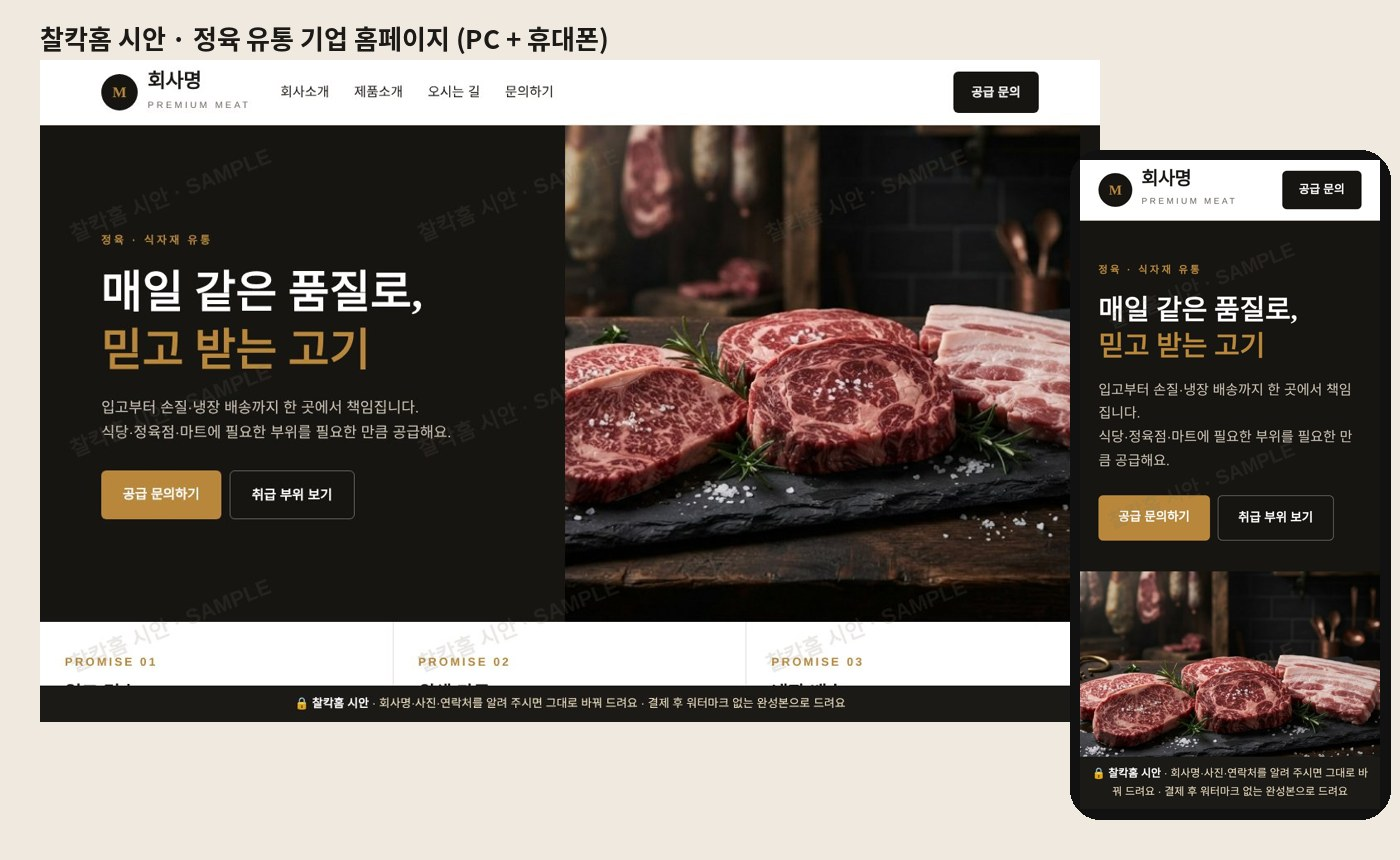
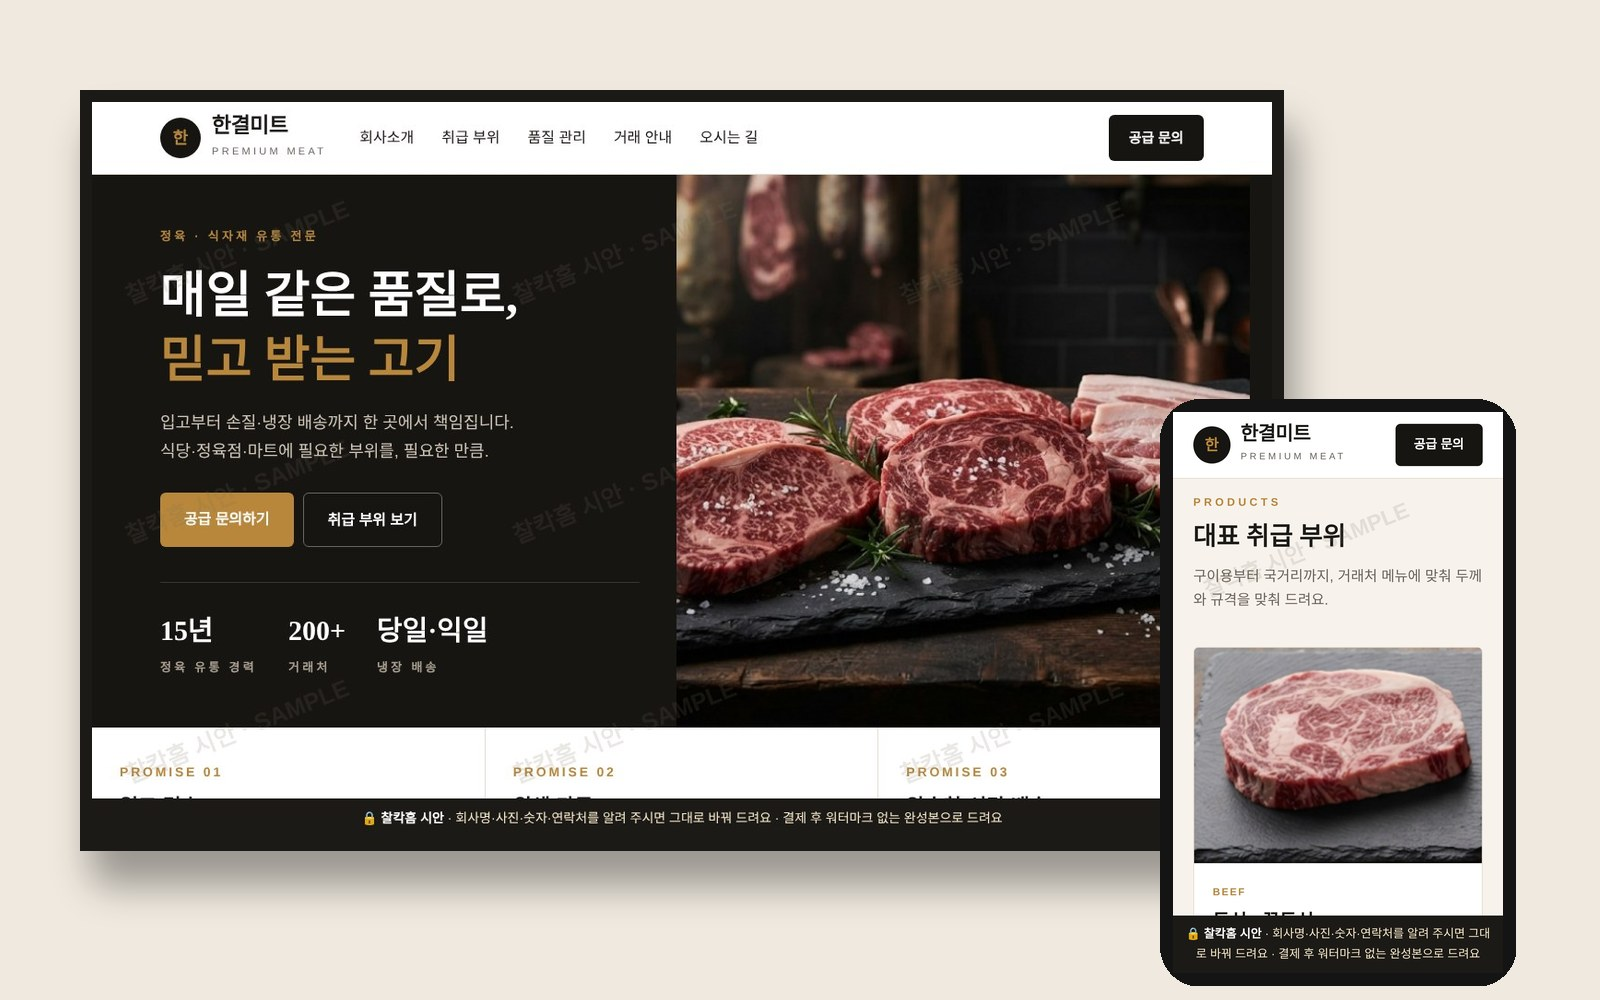
Meat draft v2 (mirror)
Claude-Session: https://claude.ai/code/session_01D8ERGz5r4FPkuXoKDYhqRw

diff --git a/web/s/meat/index.html b/web/s/meat/index.html
@@ -1,5 +1,5 @@
 <!doctype html><html lang="ko"><head><meta charset="utf-8"><meta name="viewport" content="width=device-width,initial-scale=1">
-<title>회사명 · 정육 유통 (찰칵홈 시안)</title>
+<title>한결미트 · 정육 유통 (찰칵홈 시안)</title>
 <meta name="robots" content="noindex,nofollow">
 <link href="https://fonts.googleapis.com/css2?family=Noto+Sans+KR:wght@400;500;700;900&family=Noto+Serif+KR:wght@700;900&display=swap" rel="stylesheet">
 <style>
@@ -85,53 +85,129 @@ footer{background:#0f0e0c;color:#a69e90;padding:50px 0 90px;font-size:14px;line-
 footer b{color:#fff;font-family:'Noto Serif KR',serif;font-size:20px}
 .vh{display:none!important}
 @media(max-width:900px){header nav{display:none}.hero .in{grid-template-columns:1fr;min-height:auto;padding-top:50px}.hero .ph{height:300px;margin:0 -24px}.hero h1{font-size:36px}h2{font-size:30px}.prom,.about,.prod,.map,form .r{grid-template-columns:1fr}.who,.proc{grid-template-columns:1fr 1fr}.prom div{border-right:0;border-bottom:1px solid var(--line)}}
+
+.brand b{font-size:23px}
+.hstat{display:flex;gap:34px;margin-top:38px;padding-top:26px;border-top:1px solid rgba(255,255,255,.15)}
+.hstat b{display:block;font-family:'Noto Serif KR',serif;font-size:30px;color:#fff}.hstat small{color:#a99f90;font-size:13px}
+.cuts{display:grid;grid-template-columns:repeat(3,1fr);gap:22px;margin-top:40px}
+.cut{background:#fff;border:1px solid var(--line);border-radius:6px;overflow:hidden;transition:transform .3s}
+.cut:hover{transform:translateY(-3px)}
+.cut .im{aspect-ratio:4/3;background-size:cover;background-position:center}
+.cut .tx{padding:20px 22px}
+.cut .tg{display:inline-block;font-size:12px;font-weight:900;letter-spacing:.15em;color:var(--gold)}
+.cut b{display:block;font-family:'Noto Serif KR',serif;font-size:22px;margin:2px 0 4px}
+.cut p{color:var(--sub);font-size:15px}
+.cut ul{list-style:none;display:flex;flex-wrap:wrap;gap:6px;margin-top:12px}
+.cut li{background:var(--bg);border-radius:99px;padding:4px 12px;font-size:13px;font-weight:700}
+.more{margin-top:26px;color:var(--sub);font-size:15px}
+.more span{display:inline-block;border:1px solid var(--line);border-radius:99px;padding:4px 14px;margin:4px 4px 0 0;background:#fff;font-weight:700;color:var(--ink)}
+.band{position:relative;color:#fff;background:#000 center/cover}
+.band:before{content:"";position:absolute;inset:0;background:linear-gradient(90deg,rgba(15,13,11,.92),rgba(15,13,11,.55))}
+.band .in{position:relative}
+.band h2{color:#fff}.band .sl{color:#d8cfc1}
+.who2{display:grid;grid-template-columns:repeat(4,1fr);gap:16px;margin-top:40px}
+.who2 div{background:rgba(255,255,255,.07);border:1px solid rgba(255,255,255,.14);border-radius:6px;padding:24px;backdrop-filter:blur(2px)}
+.who2 em{font-style:normal;font-size:28px}.who2 b{display:block;font-size:20px;margin-top:8px}.who2 small{color:#cfc6b8;font-size:15px}
+.qc{display:grid;grid-template-columns:1fr 1.1fr;gap:56px;align-items:center}
+.qc img{width:100%;border-radius:6px;display:block}
+.chk{list-style:none;margin-top:26px;display:grid;gap:14px}
+.chk li{display:flex;gap:14px;align-items:flex-start;background:var(--bg);border-radius:6px;padding:16px 18px}
+.chk li i{font-style:normal;flex:none;width:30px;height:30px;border-radius:50%;background:var(--dk);color:var(--gold);display:grid;place-items:center;font-weight:900;font-size:14px}
+.chk b{display:block;font-size:17px}.chk small{color:var(--sub);font-size:14.5px}
+.proc{grid-template-columns:repeat(4,1fr)}
+.flow{display:grid;grid-template-columns:repeat(4,1fr);gap:0;margin-top:40px;border:1px solid var(--line);border-radius:6px;overflow:hidden;background:#fff}
+.flow div{padding:28px 24px;border-right:1px solid var(--line);position:relative}
+.flow div:last-child{border:0}
+.flow em{font-style:normal;font-family:'Noto Serif KR',serif;font-size:40px;color:var(--line);font-weight:900;line-height:1}
+.flow b{display:block;font-size:19px;margin-top:10px}.flow small{color:var(--sub);font-size:15px}
+.faq{margin-top:34px;display:grid;gap:10px;max-width:860px}
+.faq details{background:#fff;border:1px solid var(--line);border-radius:6px;padding:18px 22px}
+.faq summary{font-weight:700;font-size:17px;cursor:pointer;list-style:none}
+.faq summary:before{content:"Q. ";color:var(--gold);font-weight:900}
+.faq p{color:var(--sub);margin-top:10px;font-size:15.5px}
+.map .m{padding:0;background:#ece6dc;overflow:hidden;position:relative}
+.map .m svg{width:100%;height:100%;display:block}
+.mapbtn{display:flex;gap:8px;margin-top:6px}.mapbtn span{border:1px solid var(--line);border-radius:6px;padding:8px 14px;font-weight:700;font-size:14px;background:#fff}
+@media(max-width:900px){.cuts,.who2,.flow,.proc{grid-template-columns:1fr 1fr}.qc{grid-template-columns:1fr}.hstat{gap:20px;flex-wrap:wrap}.flow div{border-right:0;border-bottom:1px solid var(--line)}}
+@media(max-width:560px){.cuts{grid-template-columns:1fr}}
 </style></head><body oncontextmenu="return false">
 <div class="wm"></div>
-<div class="bar">🔒 <b>찰칵홈 시안</b> · 회사명·사진·연락처를 알려 주시면 그대로 바꿔 드려요 · 결제 후 워터마크 없는 완성본으로 드려요</div>
+<div class="bar">🔒 <b>찰칵홈 시안</b> · 회사명·사진·숫자·연락처를 알려 주시면 그대로 바꿔 드려요 · 결제 후 워터마크 없는 완성본으로 드려요</div>
 <header><div class="in">
- <a class="brand" href="#home"><i>M</i><span><b>회사명</b><small>PREMIUM MEAT</small></span></a>
- <nav><a href="#about">회사소개</a><a href="#product">제품소개</a><a href="#map">오시는 길</a><a href="#contact">문의하기</a></nav>
+ <a class="brand" href="#home"><i>한</i><span><b>한결미트</b><small>PREMIUM MEAT</small></span></a>
+ <nav><a href="#about">회사소개</a><a href="#product">취급 부위</a><a href="#quality">품질 관리</a><a href="#faq">거래 안내</a><a href="#map">오시는 길</a></nav>
  <a class="qb" href="#contact">공급 문의</a>
 </div></header>
 
 <div class="hero" id="top"><div class="in">
  <div>
-  <small>정육 · 식자재 유통</small>
+  <small>정육 · 식자재 유통 전문</small>
   <h1>매일 같은 품질로,<br><em>믿고 받는 고기</em></h1>
-  <p>입고부터 손질·냉장 배송까지 한 곳에서 책임집니다.<br>식당·정육점·마트에 필요한 부위를 필요한 만큼 공급해요.</p>
+  <p>입고부터 손질·냉장 배송까지 한 곳에서 책임집니다.<br>식당·정육점·마트에 필요한 부위를, 필요한 만큼.</p>
   <div class="cta"><a class="b1" href="#contact">공급 문의하기</a><a class="b2" href="#product">취급 부위 보기</a></div>
+  <div class="hstat"><div><b>15년</b><small>정육 유통 경력</small></div><div><b>200+</b><small>거래처</small></div><div><b>당일·익일</b><small>냉장 배송</small></div></div>
  </div>
  <div class="ph"></div>
 </div></div>
-<div class="prom" id="prom"><div><em>PROMISE 01</em><b>입고 검수</b><small>들어오는 원육마다 상태와 등급 확인</small></div><div><em>PROMISE 02</em><b>위생 가공</b><small>저온 작업장에서 부위별 손질·진공 포장</small></div><div><em>PROMISE 03</em><b>냉장 배송</b><small>냉장 차량으로 약속한 날짜에 배송</small></div></div>
+<div class="prom" id="prom"><div><em>PROMISE 01</em><b>입고 검수</b><small>들어오는 원육마다 상태·등급·이력 확인</small></div><div><em>PROMISE 02</em><b>위생 가공</b><small>저온 작업장에서 부위별 손질·진공 포장</small></div><div><em>PROMISE 03</em><b>약속한 시간 배송</b><small>냉장 차량으로 정해진 날, 정해진 시간에</small></div></div>
 
 <section id="about"><div class="in about">
  <div><div class="eb">ABOUT US</div><h2>고기 한 근에도<br>기준이 있습니다</h2>
   <p class="sl">거래처의 매출은 고기 품질에서 시작한다고 믿습니다. 그래서 눈에 보이지 않는 과정까지 직접 챙기고, 한 번 거래한 곳과 오래 함께합니다.</p>
-  <div class="num"><div><b>2</b>종<small>취급 축종 · 소 · 돼지</small></div><div><b>12+</b><small>공급 부위</small></div><div><b>3</b>단계<small>검수 · 가공 · 배송</small></div><div><b>1:1</b><small>담당자 맞춤 상담</small></div></div></div>
- <img src="img/plant.jpg" alt="위생 가공장 예시">
+  <div class="num"><div><b>2</b>종<small>취급 축종 · 소 · 돼지</small></div><div><b>30+</b><small>공급 부위·규격</small></div><div><b>4</b>단계<small>검수 · 가공 · 포장 · 배송</small></div><div><b>1:1</b><small>전담 담당자 상담</small></div></div></div>
+ <img src="img/plant.jpg" alt="위생 가공장">
 </div></section>
 
 <section id="product" class="alt"><div class="in">
- <div class="eb">PRODUCTS</div><h2>취급 부위</h2><p class="sl">구이용부터 국거리까지, 거래처의 메뉴에 맞춰 부위와 규격을 맞춰 드려요.</p>
- <div class="prod">
-  <div class="pc"><div class="t"><b>소고기</b><small>BEEF</small></div><div class="c"><p>한우·수입육 모두 상담 가능 (예시)</p><div class="chips"><span>등심</span><span>안심</span><span>채끝</span><span>갈비</span><span>양지</span><span>사태</span></div></div></div>
-  <div class="pc"><div class="t"><b>돼지고기</b><small>PORK</small></div><div class="c"><p>국내산 냉장육 위주 공급 (예시)</p><div class="chips"><span>삼겹살</span><span>목살</span><span>앞다리</span><span>뒷다리</span><span>항정</span><span>갈비</span></div></div></div>
- </div>
- <div class="who">
-  <div><em>01</em><b>식당 · 고깃집</b><small>구이용 부위를 일정한 품질로</small></div>
-  <div><em>02</em><b>정육점</b><small>원육을 필요한 물량만큼</small></div>
-  <div><em>03</em><b>마트 · 식자재</b><small>매장 판매용 정기 납품</small></div>
-  <div><em>04</em><b>단체 급식</b><small>국거리·불고기용 대량 공급</small></div>
+ <div class="eb">PRODUCTS</div><h2>대표 취급 부위</h2><p class="sl">구이용부터 국거리까지, 거래처 메뉴에 맞춰 두께와 규격을 맞춰 드려요.</p>
+ <div class="cuts"><div class="cut"><div class="im" style="background-image:url(img/c_ribeye.jpg)"></div><div class="tx"><span class="tg">BEEF</span><b>등심 · 꽃등심</b><p>마블링이 고르게 든 구이용 대표 부위</p><ul><li>스테이크 두께</li><li>구이용 슬라이스</li><li>원육</li></ul></div></div><div class="cut"><div class="im" style="background-image:url(img/c_tender.jpg)"></div><div class="tx"><span class="tg">BEEF</span><b>안심</b><p>결이 부드러워 스테이크·코스 요리에</p><ul><li>통안심</li><li>메달리온 컷</li></ul></div></div><div class="cut"><div class="im" style="background-image:url(img/c_galbi.jpg)"></div><div class="tx"><span class="tg">BEEF</span><b>갈비</b><p>뼈째 손질해 양념·생갈비 모두 가능</p><ul><li>찜갈비</li><li>LA갈비</li><li>생갈비</li></ul></div></div><div class="cut"><div class="im" style="background-image:url(img/c_belly.jpg)"></div><div class="tx"><span class="tg">PORK</span><b>삼겹살</b><p>고깃집 매출을 책임지는 두툼한 삼겹</p><ul><li>통삼겹</li><li>1.5cm</li><li>오겹</li></ul></div></div><div class="cut"><div class="im" style="background-image:url(img/c_moksal.jpg)"></div><div class="tx"><span class="tg">PORK</span><b>목살</b><p>지방과 살코기 비율이 좋은 구이 부위</p><ul><li>구이용</li><li>통목살</li></ul></div></div><div class="cut"><div class="im" style="background-image:url(img/c_brisket.jpg)"></div><div class="tx"><span class="tg">BEEF</span><b>차돌 · 양지</b><p>얇게 썰어 구이·국거리·탕용으로</p><ul><li>차돌 슬라이스</li><li>국거리</li><li>탕용</li></ul></div></div></div>
+ <p class="more">그 밖에도 &nbsp;<span>채끝</span><span>부채살</span><span>사태</span><span>항정살</span><span>가브리살</span><span>앞다리</span><span>뒷다리</span><span>돼지갈비</span> — 원하시는 부위는 상담해 주세요.</p>
+</div></section>
+
+<section id="partner" class="band" style="background-image:url(img/grill.jpg)"><div class="in">
+ <div class="eb">PARTNERS</div><h2>이런 곳에 공급해요</h2><p class="sl">손님 상에 오르는 마지막 한 점까지 생각합니다.</p>
+ <div class="who2">
+  <div><em>🔥</em><b>식당 · 고깃집</b><small>구이용 부위를 매번 같은 두께·같은 품질로</small></div>
+  <div><em>🔪</em><b>정육점</b><small>원육을 필요한 물량만큼 정기 공급</small></div>
+  <div><em>🛒</em><b>마트 · 식자재</b><small>매장 진열용 소포장까지 맞춤</small></div>
+  <div><em>🍱</em><b>단체 급식</b><small>국거리·불고기용 대량 공급</small></div>
  </div>
 </div></section>
 
-<section id="process"><div class="in">
+<section id="quality"><div class="in qc">
+ <img src="img/aging.jpg" alt="숙성 냉장실">
+ <div><div class="eb">QUALITY</div><h2>보이지 않는 곳까지<br>꼼꼼하게</h2>
+  <ul class="chk">
+   <li><i>1</i><span><b>이력번호 확인</b><small>모든 원육의 이력번호와 등급을 입고 때 확인해요.</small></span></li>
+   <li><i>2</i><span><b>온도 기록</b><small>입고·작업장·냉장고·배송 차량 온도를 매일 기록해요.</small></span></li>
+   <li><i>3</i><span><b>부위별 전담 손질</b><small>숙련된 직원이 부위마다 정해진 기준으로 손질해요.</small></span></li>
+   <li><i>4</i><span><b>진공 포장</b><small>공기를 빼서 포장해 받으신 뒤에도 신선하게.</small></span></li>
+  </ul></div>
+</div></section>
+
+<section id="process" class="alt"><div class="in">
  <div class="eb">PROCESS</div><h2>신선하게 도착하기까지</h2>
  <div class="proc">
   <figure><div class="im" style="background-image:url(img/beef.jpg)"></div><figcaption><em>STEP 01</em><b>입고 검수</b><small>원육 상태·등급을 하나하나 확인</small></figcaption></figure>
-  <figure><div class="im" style="background-image:url(img/plant.jpg)"></div><figcaption><em>STEP 02</em><b>가공 · 보관</b><small>저온 위생 작업장에서 손질·포장</small></figcaption></figure>
-  <figure><div class="im" style="background-image:url(img/truck.jpg)"></div><figcaption><em>STEP 03</em><b>냉장 배송</b><small>냉장 차량으로 약속한 날짜에</small></figcaption></figure>
+  <figure><div class="im" style="background-image:url(img/plant.jpg)"></div><figcaption><em>STEP 02</em><b>위생 가공</b><small>저온 작업장에서 부위별 손질</small></figcaption></figure>
+  <figure><div class="im" style="background-image:url(img/pack.jpg)"></div><figcaption><em>STEP 03</em><b>진공 포장</b><small>거래처별 규격에 맞춰 포장</small></figcaption></figure>
+  <figure><div class="im" style="background-image:url(img/truck.jpg)"></div><figcaption><em>STEP 04</em><b>냉장 배송</b><small>냉장 차량으로 약속한 시간에</small></figcaption></figure>
+ </div>
+</div></section>
+
+<section id="faq"><div class="in">
+ <div class="eb">HOW TO ORDER</div><h2>거래는 이렇게 시작해요</h2>
+ <div class="flow">
+  <div><em>01</em><b>문의</b><small>필요한 부위·물량을 남겨 주세요</small></div>
+  <div><em>02</em><b>견적</b><small>담당자가 단가와 배송 일정을 안내</small></div>
+  <div><em>03</em><b>샘플 확인</b><small>처음엔 소량으로 먼저 받아 보세요</small></div>
+  <div><em>04</em><b>정기 납품</b><small>요일·시간을 정해 꾸준히</small></div>
+ </div>
+ <div class="faq">
+  <details open><summary>처음인데 소량도 주문할 수 있나요?</summary><p>네. 처음 거래하시는 곳은 소량으로 먼저 받아 보시고, 마음에 드시면 정기 납품으로 이어 가셔도 돼요.</p></details>
+  <details><summary>배송 지역과 시간은 어떻게 되나요?</summary><p>냉장 차량으로 정해진 요일·시간에 배송해요. 지역별 배송 가능 여부는 문의 주시면 바로 알려 드려요.</p></details>
+  <details><summary>원하는 두께나 규격으로 손질해 주시나요?</summary><p>네. 메뉴에 맞춰 두께·무게·포장 단위를 정해 드리고, 매번 같은 규격으로 맞춰 드려요.</p></details>
+  <details><summary>결제는 어떻게 하나요?</summary><p>거래 방식에 따라 건별 또는 월 정산으로 상담해 드려요.</p></details>
  </div>
 </div></section>
 
@@ -139,18 +215,18 @@ footer b{color:#fff;font-family:'Noto Serif KR',serif;font-size:20px}
 
 <section id="map"><div class="in">
  <div class="eb">LOCATION</div><h2>오시는 길</h2>
- <div class="map"><div class="m">🗺 지도 (실제 주소로 연결)</div>
-  <dl><div><dt>주소</dt><dd>○○시 ○○구 ○○로 00 (예시)</dd></div><div><dt>전화</dt><dd>000-0000-0000</dd></div><div><dt>운영 시간</dt><dd>평일 09:00 – 18:00 · 주말·공휴일 휴무</dd></div></dl></div>
+ <div class="map"><div class="m"><svg viewBox="0 0 640 340" preserveAspectRatio="xMidYMid slice"><rect width="640" height="340" fill="#efeae1"/><g fill="#e2dccf"><rect x="20" y="20" width="150" height="90" rx="6"/><rect x="200" y="20" width="190" height="90" rx="6"/><rect x="420" y="20" width="200" height="90" rx="6"/><rect x="20" y="150" width="150" height="170" rx="6"/><rect x="420" y="150" width="200" height="170" rx="6"/><rect x="200" y="230" width="190" height="90" rx="6"/></g><path d="M0 130H640M185 0V340M405 0V340" stroke="#fff" stroke-width="18"/><path d="M0 130H640" stroke="#f4d58d" stroke-width="10"/><rect x="215" y="150" width="160" height="62" rx="6" fill="#d8cfbe"/><text x="295" y="125" font-size="12" text-anchor="middle" fill="#8a8170" font-family="sans-serif">○○대로</text><circle cx="295" cy="178" r="30" fill="rgba(184,135,59,.18)"/><path d="M295 150c-13 0-22 9-22 21 0 16 22 37 22 37s22-21 22-37c0-12-9-21-22-21z" fill="#b8873b"/><circle cx="295" cy="171" r="7" fill="#fff"/><rect x="232" y="214" width="126" height="26" rx="13" fill="#1c1a17"/><text x="295" y="232" font-size="13" font-weight="700" text-anchor="middle" fill="#fff" font-family="sans-serif">한결미트 물류센터</text></svg></div>
+  <dl><div><dt>주소</dt><dd>○○시 ○○구 ○○로 00 (예시)</dd></div><div><dt>전화</dt><dd>000-0000-0000</dd></div><div><dt>운영 시간</dt><dd>평일 06:00 – 17:00 · 토요일 오전 · 일·공휴일 휴무</dd></div><div><dt>지도 바로가기</dt><dd class="mapbtn"><span>네이버 지도</span><span>카카오맵</span></dd></div></dl></div>
 </div></section>
 
 <section id="contact" class="alt"><div class="in">
- <div class="eb">CONTACT</div><h2>공급 문의</h2><p class="sl">남겨 주시면 영업일 기준 하루 안에 연락드려요.</p>
- <form onsubmit="alert('시안에서는 접수되지 않아요');return false"><div class="r"><input placeholder="업체명"><input placeholder="연락처"></div><select><option>업종 선택</option><option>식당 · 고깃집</option><option>정육점</option><option>마트 · 식자재</option><option>단체 급식</option></select><textarea placeholder="필요한 부위 · 월 물량 · 배송 지역"></textarea><button>문의 보내기</button></form>
+ <div class="eb">CONTACT</div><h2>공급 문의</h2><p class="sl">남겨 주시면 영업일 기준 하루 안에 담당자가 연락드려요.</p>
+ <form onsubmit="return false"><div class="r"><input placeholder="업체명"><input placeholder="연락처"></div><select><option>업종 선택</option><option>식당 · 고깃집</option><option>정육점</option><option>마트 · 식자재</option><option>단체 급식</option></select><textarea placeholder="필요한 부위 · 월 물량 · 배송 지역"></textarea><button>문의 보내기</button></form>
 </div></section>
 
-<footer><div class="in"><b>회사명</b><br>대표 ○○○ · 사업자등록번호 000-00-00000 · ○○시 ○○구 ○○로 00<br>전화 000-0000-0000 · 메일 example@company.com<br>© 2026 회사명. 이 화면은 찰칵홈이 만든 시안이에요.</div></footer>
+<footer><div class="in"><b>한결미트</b><br>대표 ○○○ · 사업자등록번호 000-00-00000 · ○○시 ○○구 ○○로 00<br>전화 000-0000-0000 · 메일 example@company.com<br>© 2026 한결미트(예시 이름). 이 화면은 찰칵홈이 만든 시안이에요.</div></footer>
 <script>
-(function(){const MAP={home:["top","prom","about","product","process","cta","map","contact"],about:["about","process","cta"],product:["product","cta"],map:["map"],contact:["contact"]};const ALL=[...new Set([].concat(...Object.values(MAP)))].map(id=>document.getElementById(id)).filter(Boolean);
+(function(){const MAP={home:["top","prom","about","product","partner","quality","process","faq","cta","map","contact"],about:["about","quality","process","cta"],product:["product","partner","cta"],quality:["quality","process","cta"],faq:["faq","cta","contact"],map:["map"],contact:["contact"]};const ALL=[...new Set([].concat(...Object.values(MAP)))].map(id=>document.getElementById(id)).filter(Boolean);
 function show(v,push){if(!MAP[v])v="home";ALL.forEach(e=>e.classList.add("vh"));MAP[v].forEach(id=>{const e=document.getElementById(id);if(e)e.classList.remove("vh")});document.querySelectorAll("header nav a").forEach(a=>a.classList.toggle("on",a.getAttribute("href")==="#"+v));scrollTo(0,0);if(push)history.pushState({v},"",v==="home"?location.pathname:"#"+v)}
 document.addEventListener("click",e=>{const a=e.target.closest("a[href^='#']");if(!a)return;const id=a.getAttribute("href").slice(1)||"home";if(!MAP[id])return;e.preventDefault();show(id,true)});
 addEventListener("popstate",()=>show((location.hash||"#home").slice(1),false));show((location.hash||"#home").slice(1),false)})();
